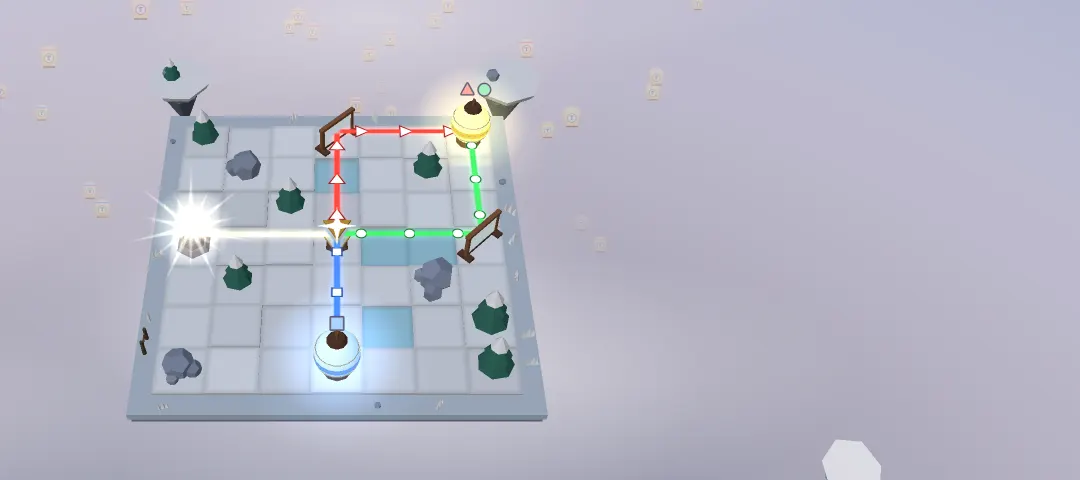
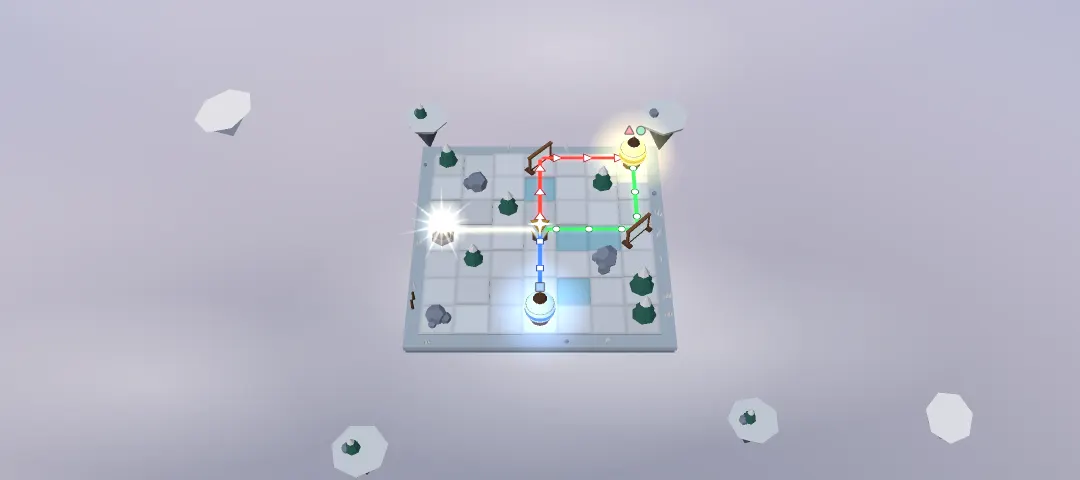
Feed card picture centred again, with a clean sky
Cause: the hero island has water and stone mirrors, so the renderer's fresh browser opened a
one-time rule card, and on the wide 1080 px render the landscape layout moved the island left
to make room for it; the phone card then cropped the island's left side. The faint shapes at
the top were the local test server's 140 made-up sky lanterns, all in view since the sky fix.
`npm run hero` now marks every rule card seen before rendering, and the local server gives the
hero island an empty sky. All five pictures re-rendered (10-11 KB each).

diff --git a/vite.debug.config.ts b/vite.debug.config.ts
@@ -311,7 +311,8 @@ function localApi(): Plugin {
           'koi',
           'comet',
         ] as const;
-        const count = day === 6 ? 4 : 140;
+        // The hero island (days 900 and up, for scripts/hero.mjs) has an empty sky.
+        const count = day >= 900 ? 0 : day === 6 ? 4 : 140;
         const body: SkyResponse = {
           ok: true,
           day,
